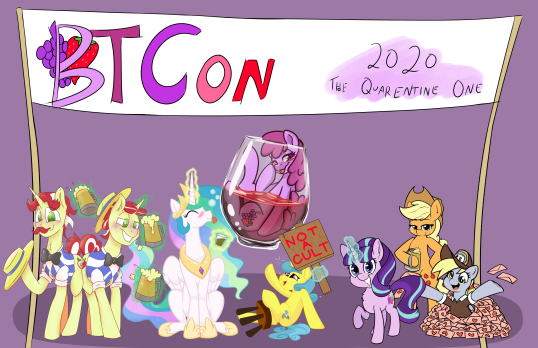
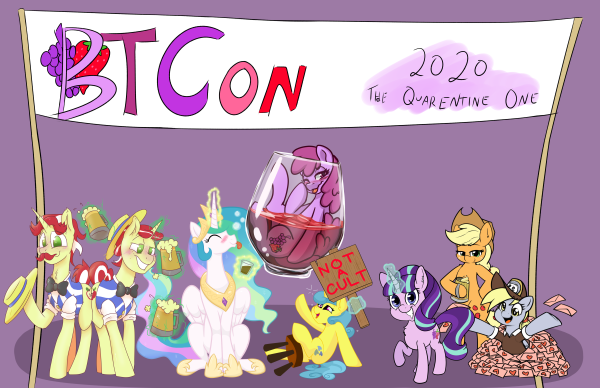
Use original BTCon 2020 resources for the theme

diff --git a/web/plugins/toastthemes/css/btcon2020/colors.css b/web/plugins/toastthemes/css/btcon2020/colors.css
@@ -4,37 +4,11 @@ html {
   --transparentBG: rgba(17, 9, 23, .8);
 }
 
-#banner {
-  background: url(images/banner.png) no-repeat center;
-  height: 348px;
-  margin: 0 auto;
-  width: 538px;
-}
-
 body::-webkit-scrollbar,
 body #chatbuffer::-webkit-scrollbar,
 body #adminbuffer::-webkit-scrollbar,
 body #chatlist::-webkit-scrollbar {
   width: 11px;
-}
-
-body {
-  position: relative;
-}
-body > * {
-  z-index: 1;
-  position: relative;
-}
-body::after {
-  content: ' ';
-  width: 100%;
-  height: 100%;
-  position: absolute;
-  top: 0;
-  left: 0;
-  pointer-events: none;
-  background: rgba(7, 0, 15, .6);
-  z-index: 0;
 }
 
 body,
@@ -43,12 +17,6 @@ body #adminbuffer,
 body #chatlist {
   scrollbar-width: thin;
   scrollbar-color: var(--thumbBG) var(--scrollbarBG);
-}
-
-body #chatbuffer,
-body #adminbuffer {
-  width: 470px;
-  margin: 0 5px;
 }
 
 body::-webkit-scrollbar-track,
@@ -95,6 +63,7 @@ body #dyn_motd {
   margin: .5em;
   border-radius: 5px;
   overflow: hidden;
+  box-shadow: 0px 0px 5px 3px rgba(32, 17, 55, .77);
   border: none;
 }
 body #dyn_motd {
@@ -106,6 +75,7 @@ body #pollpane .poll {
   margin: .5em;
   border-radius: 5px;
   overflow: hidden;
+  box-shadow: 0px 0px 5px 3px rgba(32, 17, 55, .77);
   border: none;
 }
 body #pollpane .poll.active {
@@ -240,7 +210,7 @@ body .poll .btn.close:hover {
 body .dialogWindow .close::after ,
 body .berrymotes.dialogWindow .close::after {
 
-  content: "X";
+  content: "✖";
 }
 
 body .dialogWindow .dialogToolbar,
@@ -288,6 +258,7 @@ body #leftpane {
   background: rgba(11, 6, 15, .85);
   border-radius: 5px;
   margin: 6px 0;
+  box-shadow: 0px 0px 5px 3px rgba(32, 17, 55, .77);
 }
 body #playlist {
   background: transparent;
@@ -409,4 +380,20 @@ body .chatbuffer .highlight {
 #chatlist ul .mod,
 .flaunt.level_1 {
   color: #52b059;
+}
+
+#banner {
+  background: url(images/banner.png) no-repeat center;
+  width: 600px;
+  height: 388px;
+  margin: 0 auto;
+  border-radius: 10px;
+}
+
+#videobg {
+  background: url(images/player_back2.png) no-repeat center center;
+}
+
+#chatpane.admin #adminbuffer {
+  background-image: url(images/admin_back.png) !important;
 }
